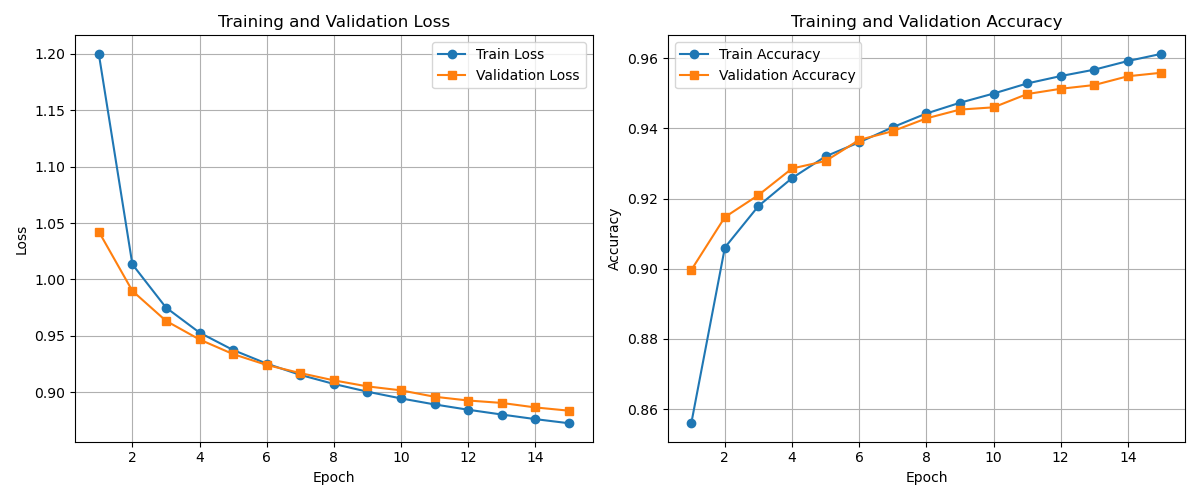
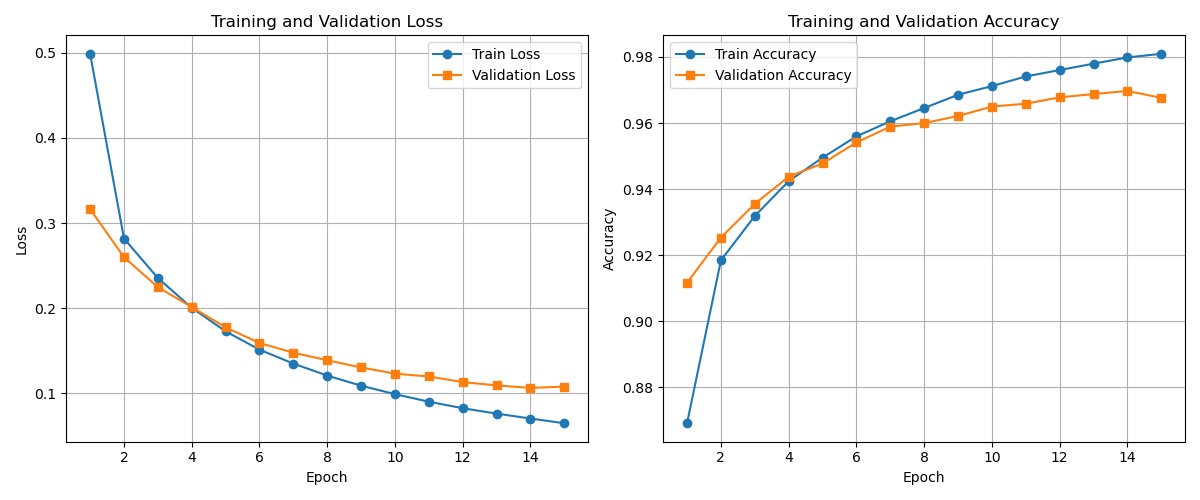
changed

diff --git a/Ex1/train_without_test.py b/Ex1/train_without_test.py
@@ -9,10 +9,10 @@ def main():
 
     rd=42
     epochs = 15
-    batch_size = 32
-    learning_rate = 2*1e-2
+    batch_size = 128
+    learning_rate = 0.005
     optimizer = 'adam'
-    l2_reg = False
+    l2_reg = True
     l2_lambda = 1e-3
 
 
@@ -34,9 +34,9 @@ def main():
     print("数据集划分完成")
 
     model = Model(learning_rate=learning_rate, optimizer=optimizer)
-    model.add_layer(layer_input_dim=784, layer_output_dim=128, initialize='xavier', activation='tanh', l2=l2_reg, l2_lambda=l2_lambda)
-    model.add_layer(layer_input_dim=128, layer_output_dim=128, initialize='xavier', activation='tanh', l2=l2_reg, l2_lambda=l2_lambda)
-    model.add_layer(layer_input_dim=128, layer_output_dim=10, initialize='xavier', activation='tanh', l2=l2_reg, l2_lambda=l2_lambda)
+    model.add_layer(layer_input_dim=784, layer_output_dim=512, initialize='xavier', activation='leaky_relu', l2=l2_reg, l2_lambda=l2_lambda)
+    model.add_layer(layer_input_dim=512, layer_output_dim=256, initialize='xavier', activation='leaky_relu', l2=l2_reg, l2_lambda=l2_lambda)
+    model.add_layer(layer_input_dim=256, layer_output_dim=10, initialize='xavier', activation='linear', l2=l2_reg, l2_lambda=l2_lambda)
 
     print("模型构建完成, 开始训练")
 

diff --git a/Ex1/utils.py b/Ex1/utils.py
@@ -1,5 +1,8 @@
 import numpy as np
-
+import matplotlib.pyplot as plt
+import seaborn as sns
+from sklearn.metrics import confusion_matrix
+import pandas as pd
 
 def cross_entropy_loss(y_true:np.ndarray, y_pred:np.ndarray) -> float:
     m = y_true.shape[0]
@@ -45,11 +48,6 @@ def sigmoid_differential(z:np.ndarray) -> np.ndarray:
 def relu_differential(z:np.ndarray) -> np.ndarray:
     return np.where(z > 0, 1, 0)
 
-import numpy as np
-import matplotlib.pyplot as plt
-import seaborn as sns
-from sklearn.metrics import confusion_matrix
-import pandas as pd
 
 def plot_loss_accuracy(train_losses, val_losses, train_accuracies, val_accuracies, epochs=None):
     """

diff --git a/Ex1/train.py b/Ex1/train.py
@@ -8,7 +8,7 @@ from model import Model, FullyConnectedLayer
 def main():
 
     rd=42
-    epochs = 2
+    epochs = 30
     batch_size = 64
     learning_rate = 1e-2
     optimizer = 'adam'
